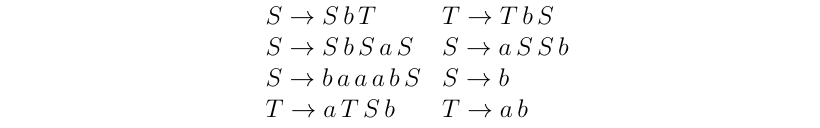
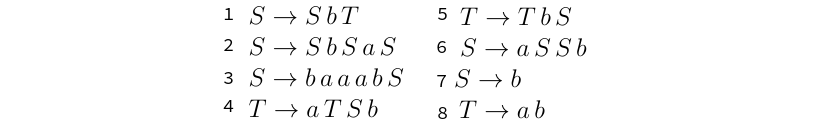
done?

diff --git a/README.md b/README.md
@@ -1,3 +1,10 @@
+<!--toc:start-->
+- [Задача 1](#задача-1)
+- [Задача 2](#задача-2)
+- [Задача 3](#задача-3)
+- [Задача 4](#задача-4)
+<!--toc:end-->
+
 # Задача 1
 
 $\{ w \mid (\exists v, z_1)(|v| > 0 \wedge (w = vvz_1 \lor w = z_1vv))\}, \Sigma = \{a, b\}$
@@ -10,15 +17,60 @@ $\{ w \mid (\exists v, z_1)(|v| > 0 \wedge (w = vvz_1 \lor w = z_1vv))\}, \Sigma
 
 Язык палиндромов, которые заодно не являются словами вида ww.
 
-Слово для накачки: $a^{2n + 2}b^{2n + 2} a^{2n} b^{2n + 2}a^{2n + 2}$
+Слово $a^{n!+n} b^n a^{2n} b^n a^{n!+n}$
 
-Если накачиваются $a^{2n + 2}$ или $b^{2n + 2}$, то мы выходим из языка палиндромов. Если накачиваются части из нескольких разных букв (например, если качать $a^{2n + 2}b^{2n + 2}$), то так же выходим из языка. Остается $a^{2n}$. Эту часть нужно накачать до $2n+2$, получив слово вида $ww$, выйдя из исходного языка.
+Накачка блоков b, ab, ba и крайних a выведет слово из палиндромов. Накачиваем серидину.
+
+$a^{n!+n} b^n a^{2n -i + ik} b^n a^{n!+n}$
+
+нужно найти такое k, что слово станет иметь вид ww:
+
+$2(n! + n) = 2n - i + ik$
+
+$2n! = - i + ik$
+
+$2n! = i(k - 1)$
+
+$k = \frac{2n!}{i} + 1$
+
+деление факториала на i гарантированно будет целым (это же факториал). нашли k.
+
+**НЕ КC**
 
 # Задача 3
 
 ![](img/2023-11-19-14-27-26.png)
 
-Пока нет :(
+С помощью правила 2 раскрывая S из середины можно получить слово вида $(bb)^nb(ab)^n$. 
+Нужно показать, что с используя эту грамматику никак нельзя получить слово вида $(bb)^kb(ab)^r$, где $k \not= r$ 
+
+Методом исключения будем дропать правила из грамматики.
+1. 3 правило сразу отбрасываем из-за трех ашек
+2. 4 правило отбрасываем из-за того, что мы никак не получим b в самом начале из T. То есть это правило всегда генерит две ашки
+3. отбрасываем 5 правило потому что оно всегда порождает abb в префиксе
+4. 6 правило: вторая S в правеле всегда породит слово, которая кончится на b. Значит это правило всегда породит слово, которая кончится на bb, что непозволительно из-за ведущей ашки
+
+В итоге осталось:
+
+1. $S \rightarrow SbSaS$
+2. $S \rightarrow Sbab$ (первое правило подставив T = ab)
+3. $S \rightarrow b$
+
+попробуем строить слова пытаясь получить $(bb)^kb(ab)^r$, где k, r - любые. Сначала заметим следующее:
+
+1. слова, порожденные S всегда начинаются и кончаются на b
+2. $\gamma Sb \theta$: не можем использовать правила 1 и 2 так как оба правила порождают ab на конце, а здесь сразу после S стоит b, что дает подстроку abb
+3. $\gamma aS \theta$: не можем использовать правила 1 и 2 так как это даст строки $\gamma aSbSaS \theta$ и $\gamma aSbab \theta$ соответственно. Смотрим пункт 1 и понимаем, что это тупиковая ситуация из-за подстроки abb
+
+Генерацию начнем с третьего правила: оно тупиковое и имеет целевой вид $(bb)^nb(ab)^n$ $(n = 0)$.
+ 
+Пробуем второе: $Sbab$. Видим ситуацию из второго пункта замечаний. Тупик, $bbab$ не имеет целевой вид.
+
+Пробуем первое: $SbSaS$. Применяем замечания 2 и 3 и получаем $bbSab$. Это слово будет иметь вид $(bb)^kb(ab)^r$ только если раскрытие внутреннего S будет иметь тот же вид. Повторяем рассуждение рекурсивно. База рекурсии - правило 3. В итоге мы только и строим слова вида $(bb)^nb(ab)^n$.
+
+Мы показали, что есть правила, которые генерят только слова вида $(bb)^nb(ab)^n$ и не генерят $(bb)^kb(ab)^r$. Можем построить таблицу классов эквивалентности, которая покажет бесконечное их число. 
+
+**Язык - КС**
 
 # Задача 4
 
